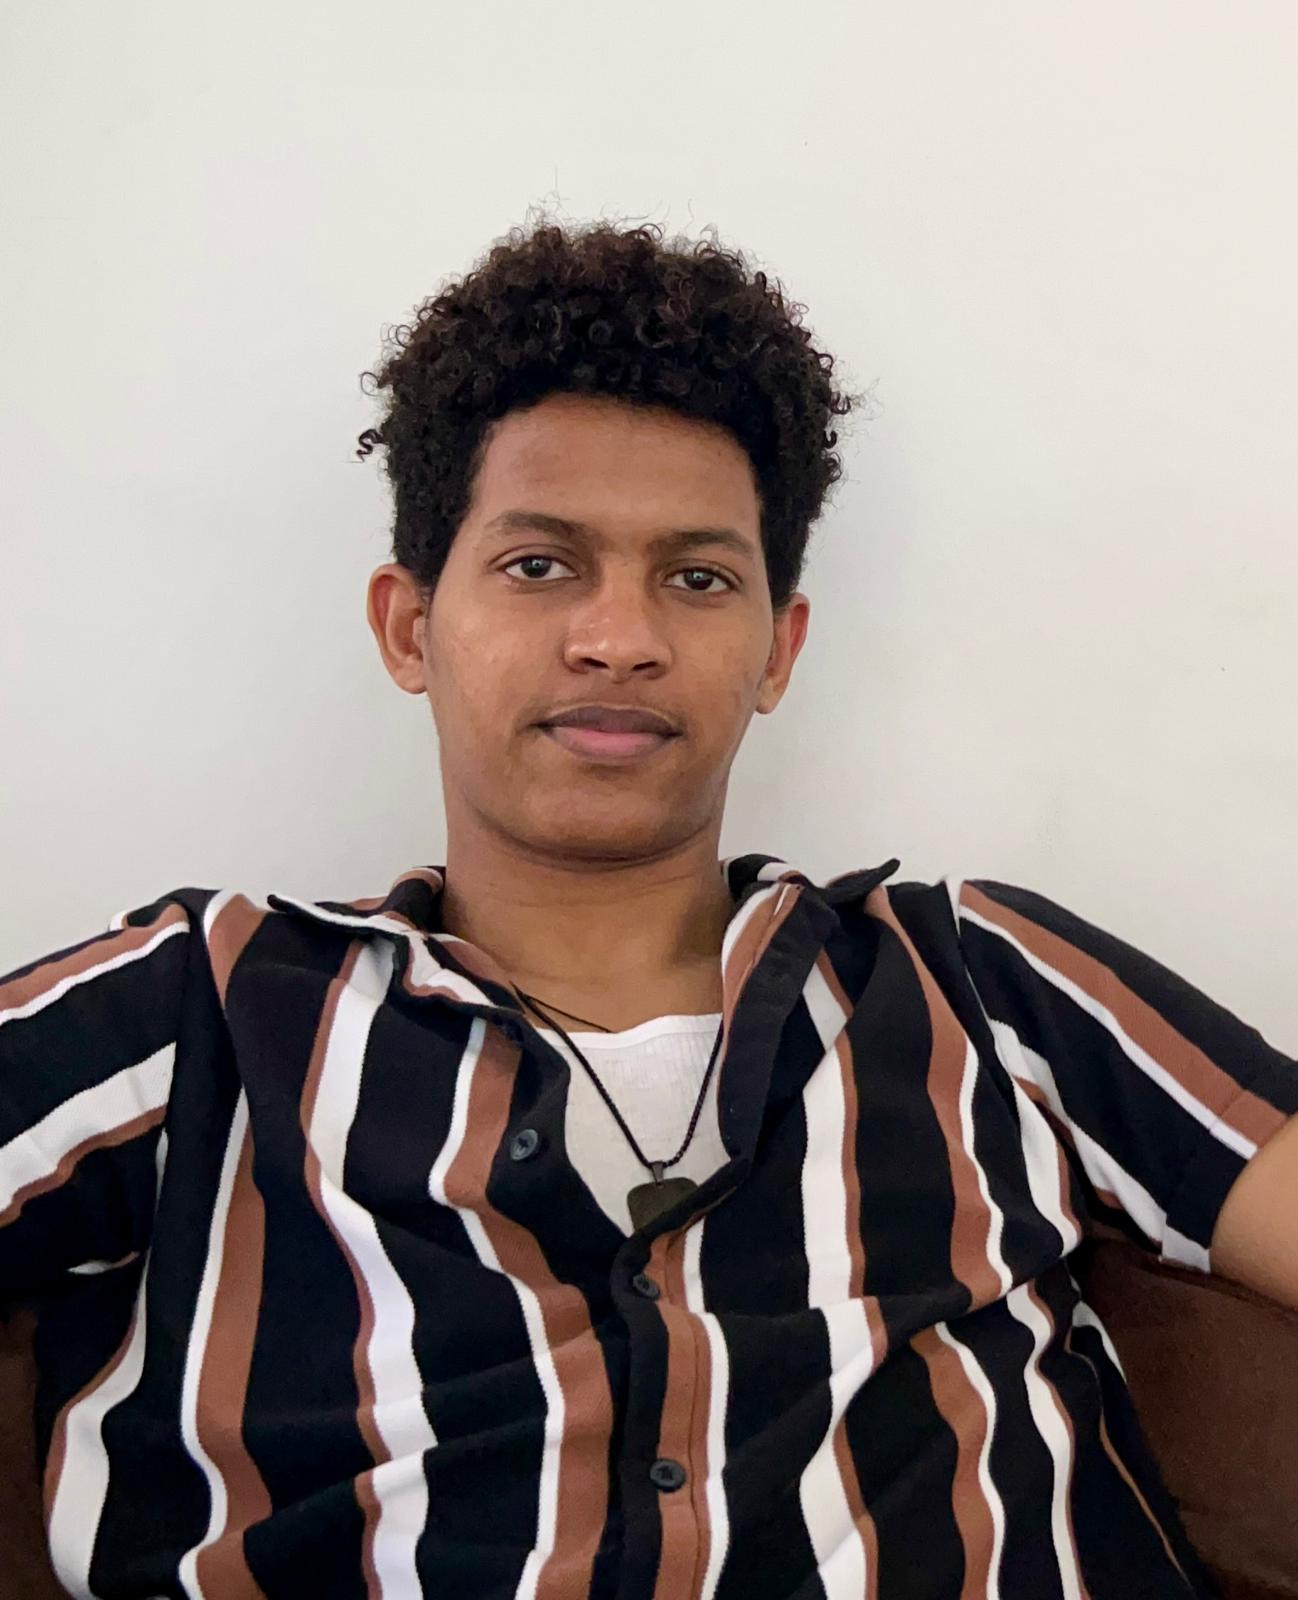
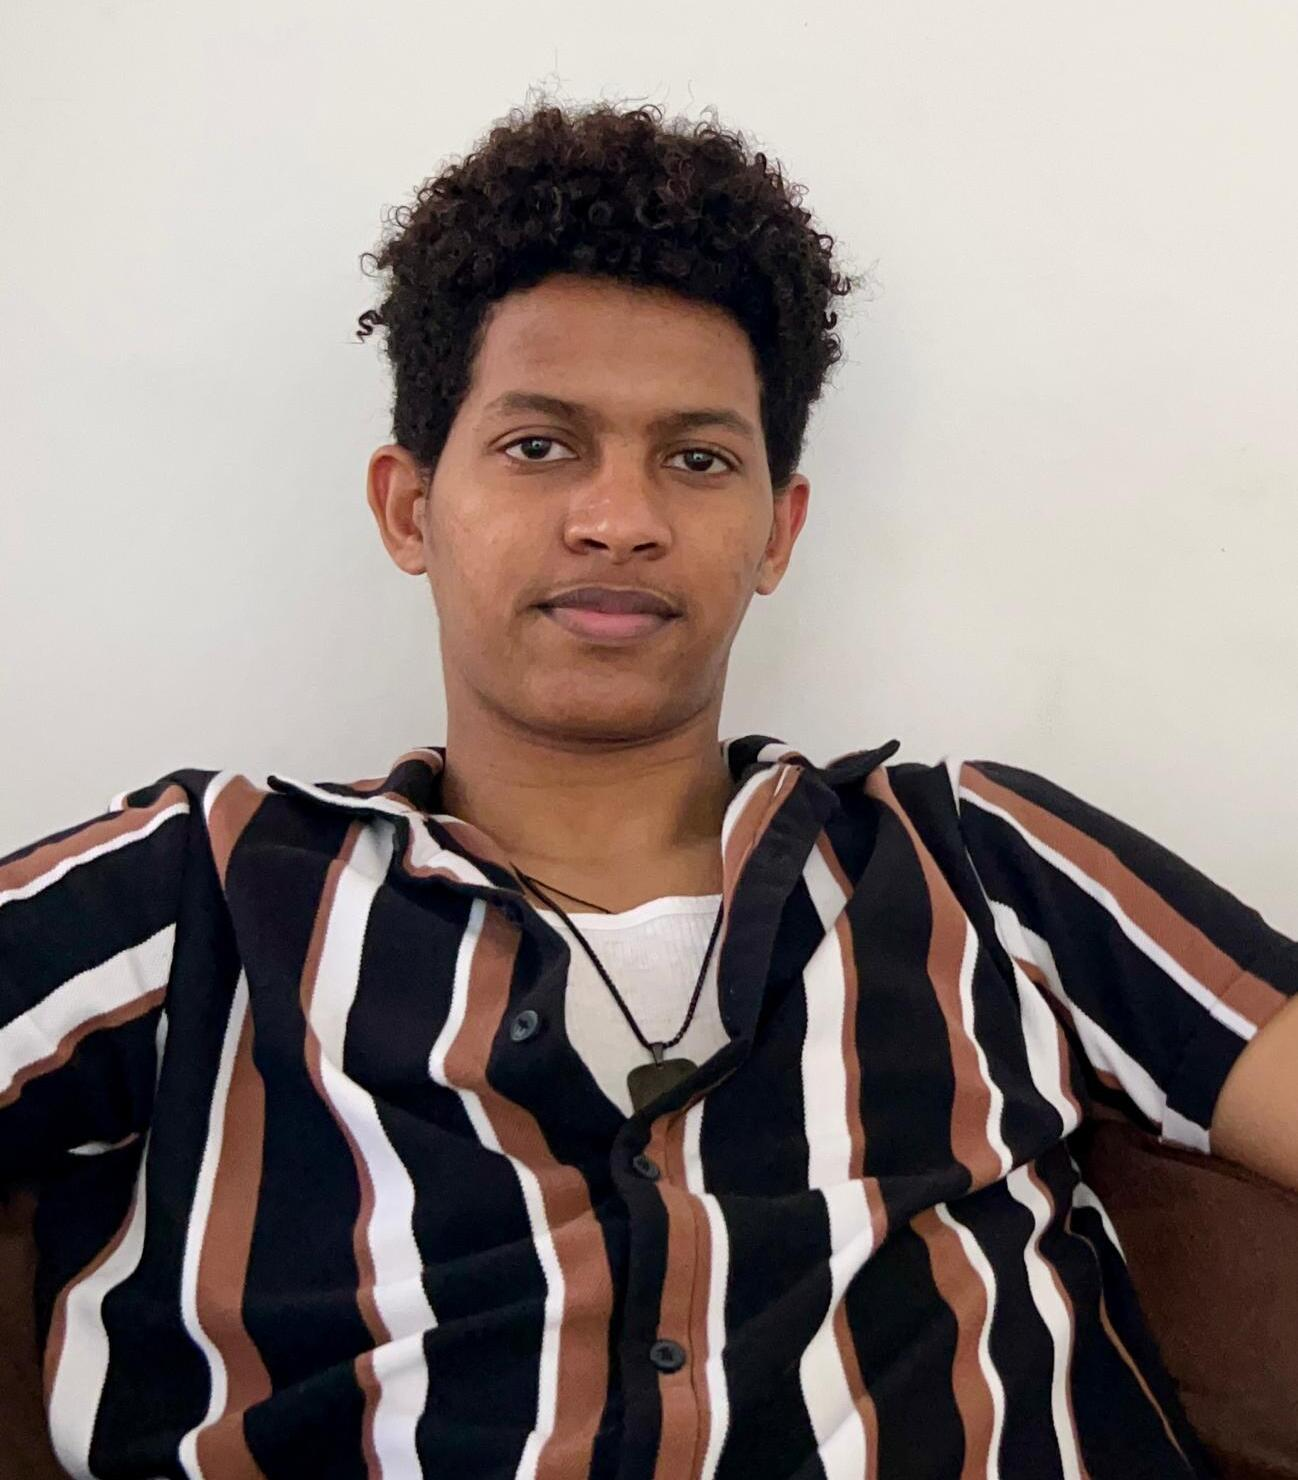
chore: minor updates

Changed region(s): [[0.0, 0.0622, 1.0, 0.9635], [0.4931, 0.9014, 0.5547, 0.9324], [0.0, 0.8081, 0.0308, 0.8392]]

diff --git a/_pages/home.md b/_pages/home.md
@@ -1,7 +1,7 @@
 ---
 layout: home
 title: Home
-home_title: <b>DMV Security Workshop 2025</b>
+home_title: <br><b>DMV Security Workshop 2025</b>
 subtitle:
 nav_title: Home
 permalink: /
